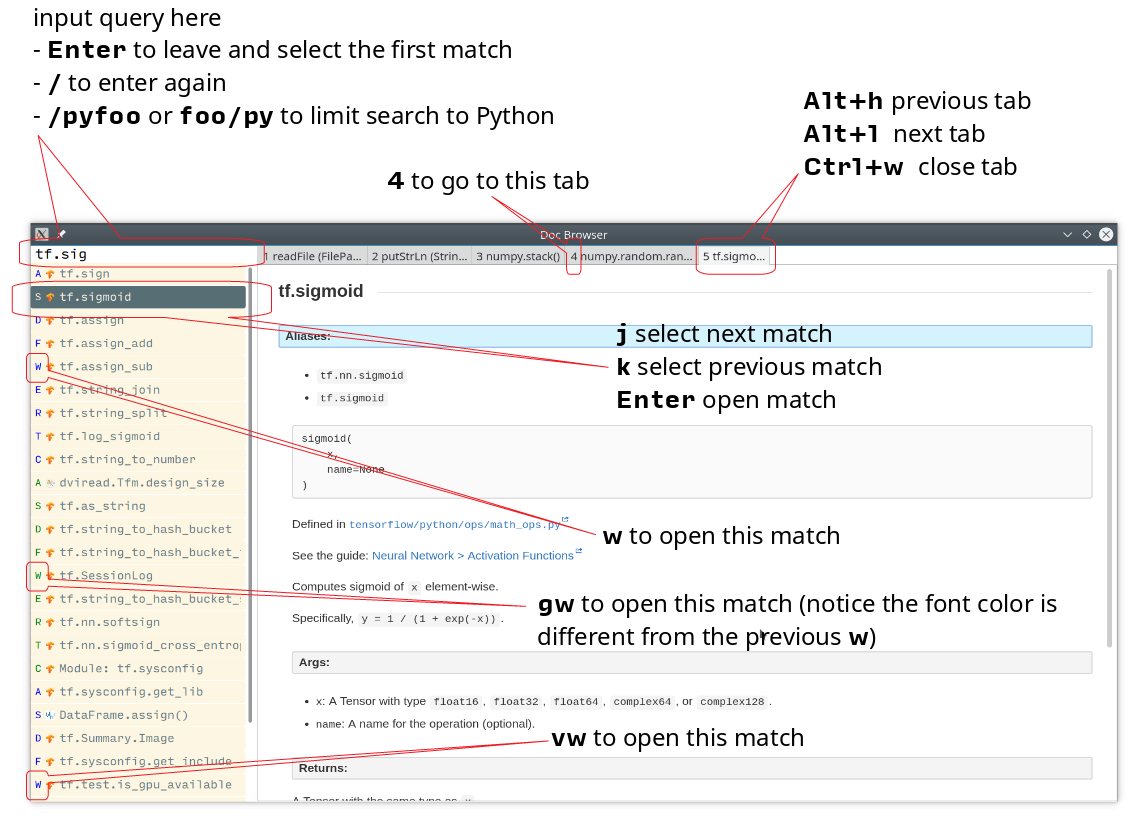
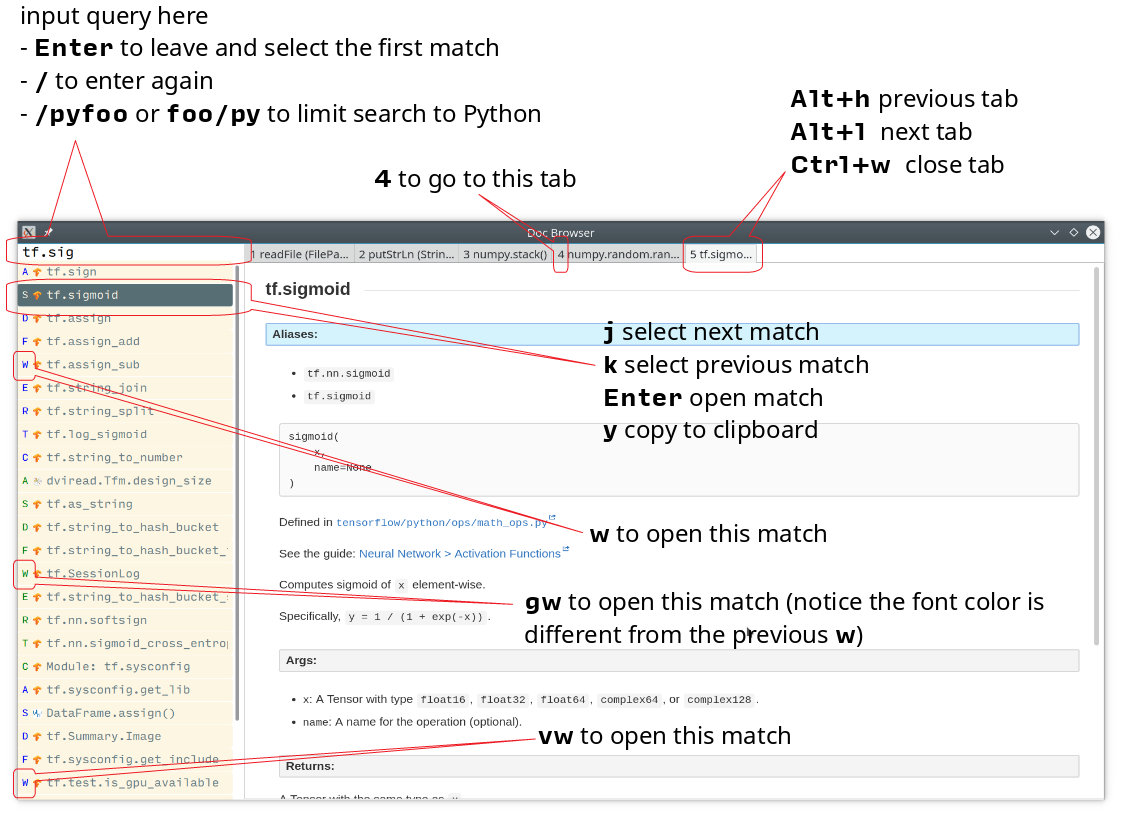
Update screenshot

diff --git a/README.md b/README.md
@@ -95,6 +95,7 @@ If you have trouble building this application, you can:
 - Does [this page](http://www.gekkou.co.uk/software/hsqml/) help? Especially the _Requirements_ and _Installation_ section.
 - Open an issue.
 
+Optionally, install the executable `xsel` or `xclip` for the <kbd>Y</kbd> shortcut (copy the selected match to clipboard) to work.
 
 ### Install DevDocs' Docset
 To install DevDocs' docset, invoke:
